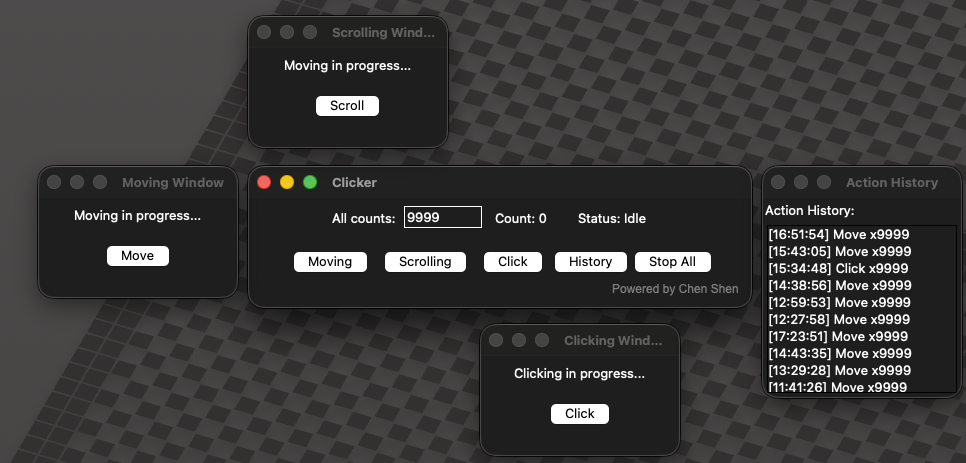
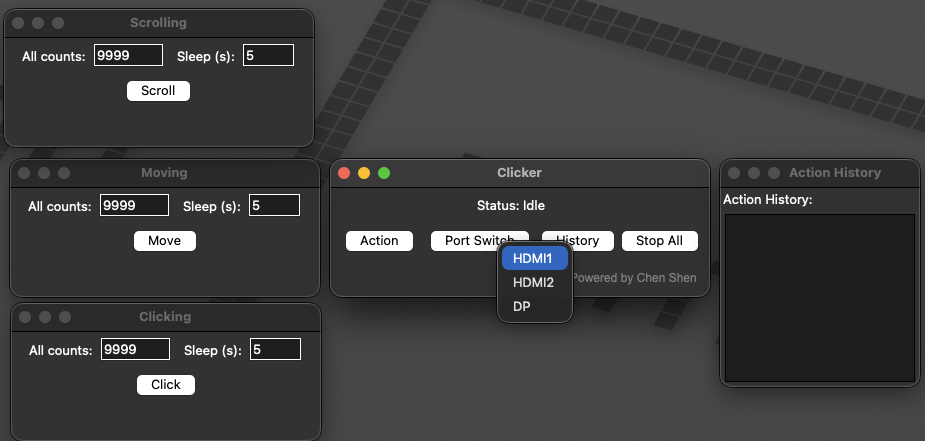
chen 14/3/2026

diff --git a/archives/index.html b/archives/index.html
@@ -110,12 +110,13 @@
                     </a>
                 </h3>
                 <div id="clickerFeatures" class="collapse">
-                    <p>Clicker is developed by python. The main purpose of the app is to help your laptop up, preventing any auto logout policy when you are away.</p>
-                    <p>More thread safe functions are coming</p>
+                    <p>SmartTool is an app based on python. The main purpose of the app is to facilitate work from home condition, preventing any auto logout policy and swap screen without using</p>
+                    <p>Your monitor panel</p>
                     <ul>
                         <li>One-tap counting</li>
                         <li>Reset and history features</li>
                         <li>Minimal, distraction-free design</li>
+                        <li>Port switching function</li>
                     </ul>
                     <div id="clickerCarousel" class="carousel slide mt-3" data-ride="carousel">
                         <div class="carousel-inner">
@@ -124,6 +125,9 @@
                             </div>
                             <div class="carousel-item">
                                 <img src="/img/Clicker/feature2.png" class="d-block img-fluid rounded" alt="Clicker Feature 2" style="max-width:300px;margin:auto;">
+                            </div>
+                            <div class="carousel-item">
+                                <img src="/img/Clicker/feature3.png" class="d-block img-fluid rounded" alt="Clicker Feature 2" style="max-width:300px;margin:auto;">
                             </div>
                         </div>
                         <a class="carousel-control-prev" href="#clickerCarousel" role="button" data-slide="prev">
